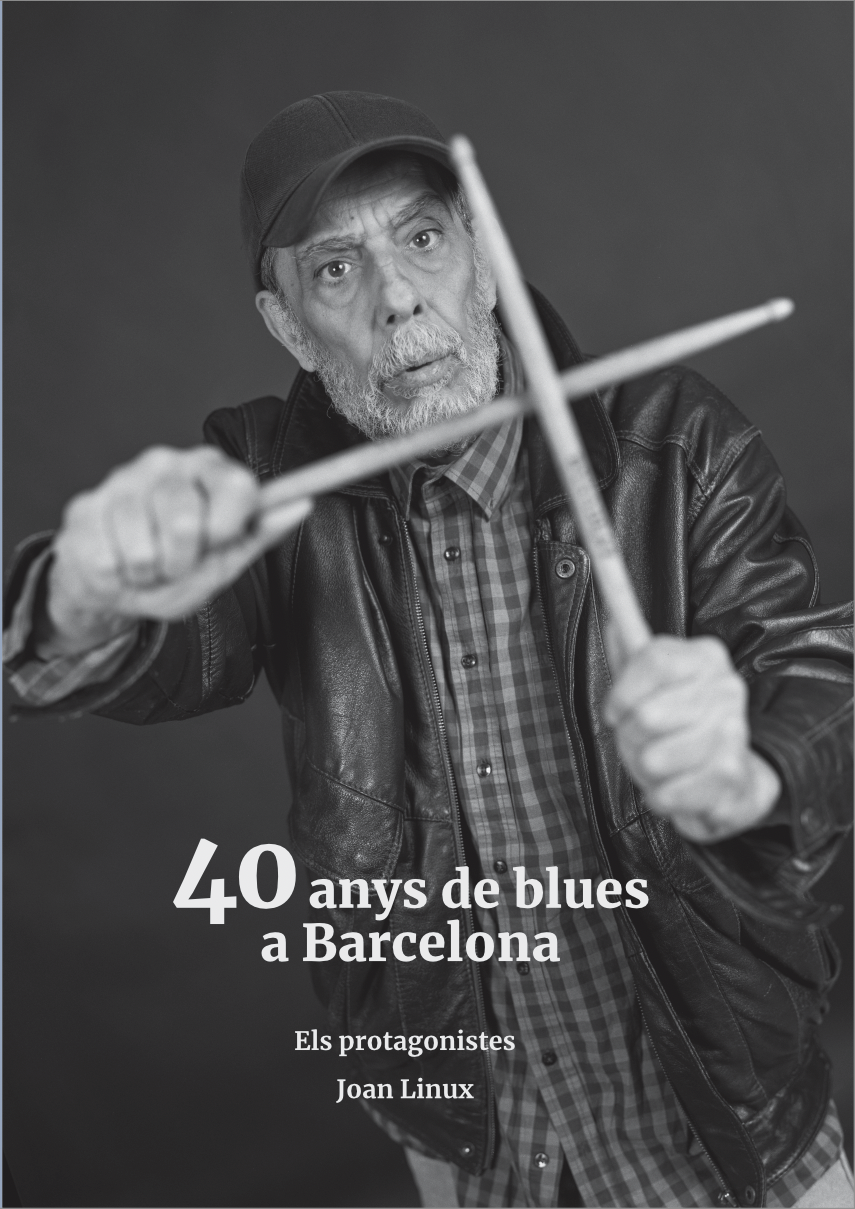
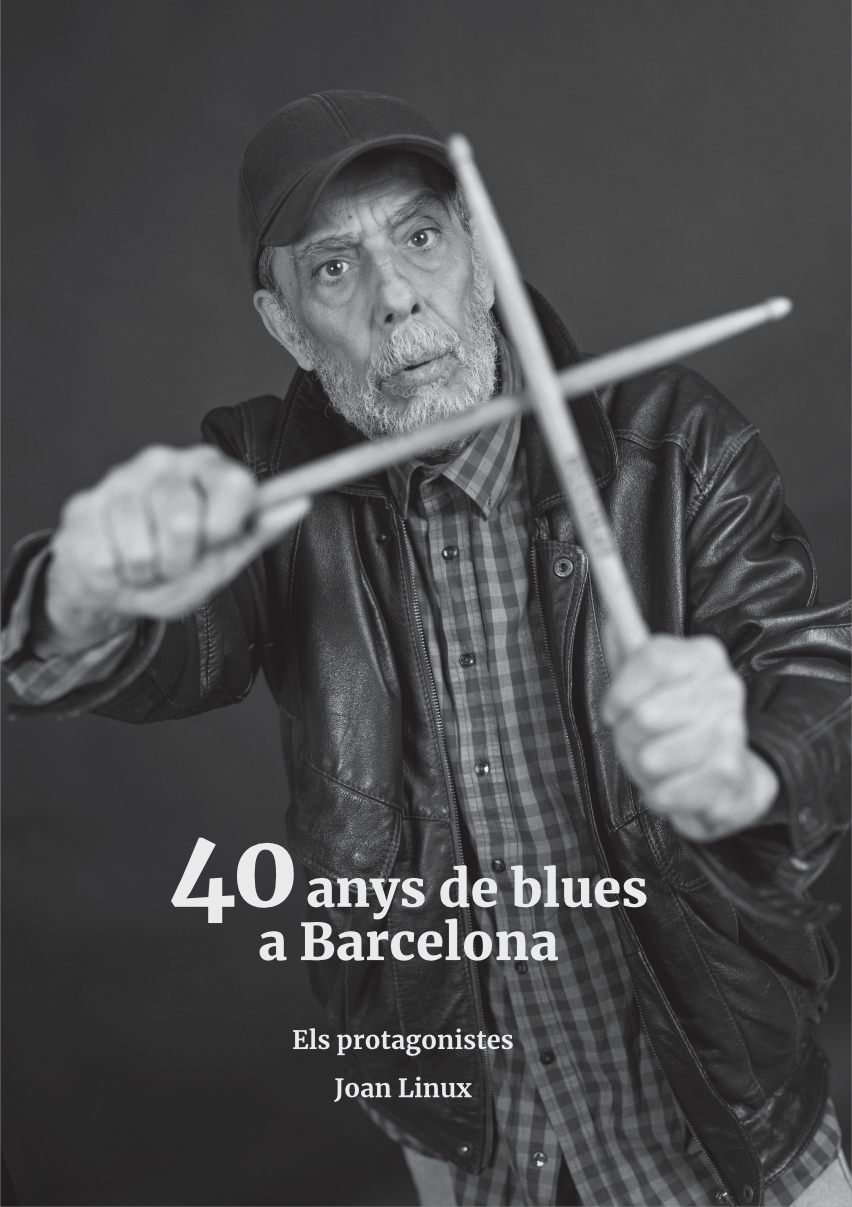
Projecte i Fotografia: portada al 50%, premsa, menu i text del proces
- og.html: les meta og:image:width/height sortien escapades i el navegador
  tancava el head; el text "<meta ...>" apareixia al capdamunt de totes les
  pagines amb fotografia (fitxes de music, autors, sales...). Ara surten com a
  safeHTML dins de <head>.
- Proleg del Projecte: el titol surt primer i la portada flota a la dreta al
  50% de l'ample (320 px com a maxim al mobil, despistada sobre el text).
  La imatge passa al contingut amb el shortcode portada-llibre.
- Menu de l'esquerra: afegeix "Proleg" i agafa els textos de les mateixes
  claus i18n que les capcaleres, de manera que no es tornin a desalinear.
- Portada retallada: fora els 2 px clars de l'esquerra i 1 px de la resta de
  costats (anti-aliasing de l'export); PNG i WebP regenerats (797x1129).
- Fotografia: estudi del Poble Sec (Llumatics) i trasllat a la Nau Bostik
  despres de la pandemia; revelat, digitalitzacio i edicio pel mateix autor;
  procediment de cada sessio (12 fotogrames de 6x6 i 2 plaques de 8x10, primer
  la Hasselblad per escalfar i despres el gran format); Hasselblad 500 C/M i
  negatiu de 6 x 6 cm; Ilford HP5 nomes ocasionalment; revelat al laboratori
  de l'autor amb Rodinal.
- llms.txt i CLAUDE.md actualitzats amb les dades tecniques.

diff --git a/themes/40anys/layouts/page/projecte.html b/themes/40anys/layouts/page/projecte.html
@@ -10,11 +10,12 @@
       <!-- Índex lateral esquerre -->
       <aside class="projecte-sidebar">
         <nav class="projecte-index" aria-label="{{ i18n "nav_projecte_index" }}">
-          <a href="#numeros">El projecte en números</a>
-          <a href="#llibres">Els llibres</a>
-          <a href="#autors">Els culpables</a>
-          <a href="#gracies">Gràcies a</a>
-          <a href="#bibliografia">Bibliografia</a>
+          <a href="#proleg">{{ i18n "projecte_preleg" }}</a>
+          <a href="#numeros">{{ i18n "projecte_numeros" }}</a>
+          <a href="#llibres">{{ i18n "projecte_llibres" }}</a>
+          <a href="#autors">{{ i18n "projecte_culpables" }}</a>
+          <a href="#gracies">{{ i18n "projecte_gracies" }}</a>
+          <a href="#bibliografia">{{ i18n "projecte_biblio" }}</a>
           <a href="#premsa">{{ i18n "projecte_premsa_nav" }}</a>
           <a href="{{ relLangURL "/fotografia/" }}">{{ i18n "nav_fotografia" }}</a>
         </nav>
@@ -25,10 +26,7 @@
 
         <h1>{{ .Title }}</h1>
 
-        <div class="projecte-proleg">
-          <figure class="proleg-portada">
-            <img src="/llibres/40anysbluesbarcelona.webp" width="400" height="566" alt="{{ i18n "projecte_portada_alt" }}">
-          </figure>
+        <div class="projecte-proleg" id="proleg">
           <div class="page-content">{{ .Content }}</div>
         </div>
 
@@ -79,7 +77,7 @@
               </div>
             </div>
             <div class="llibre-card">
-              <img src="/llibres/40anysbluesbarcelona.webp" width="800" height="1131" alt="40 Anys de Blues a Barcelona">
+              <img src="/llibres/40anysbluesbarcelona.webp" width="797" height="1129" alt="40 Anys de Blues a Barcelona">
               <div class="llibre-info">
                 <h3>40 Anys de Blues a Barcelona</h3>
                 <p>{{ i18n "projecte_llibre2_sub" (dict "preu" ($vd.preu | default "38") "soci" ($vd.preu_soci | default "33")) }}</p>

diff --git a/themes/40anys/static/css/main.css b/themes/40anys/static/css/main.css
@@ -828,16 +828,16 @@ h1, h2, h3 { font-weight: 700; }
 .projecte-proleg .page-content p { max-width: 72ch; }
 .proleg-portada {
   float: right;
-  width: 400px;
-  margin: .4rem 0 1.75rem 2.5rem;
+  width: 50%;
+  margin: .35rem 0 1.5rem 2rem;
 }
 .proleg-portada img {
   width: 100%; height: auto; display: block;
   border: 1px solid var(--border);
   box-shadow: 0 12px 32px rgba(0, 0, 0, .5);
 }
-@media (max-width: 1150px) {
-  .proleg-portada { float: none; width: min(400px, 100%); margin: 0 auto 1.75rem; }
+@media (max-width: 900px) {
+  .proleg-portada { float: none; width: min(320px, 100%); margin: .5rem auto 1.75rem; }
   .projecte-proleg .page-content { max-width: 720px; }
   .projecte-proleg .page-content p { max-width: none; }
 }

diff --git a/themes/40anys/layouts/index.html b/themes/40anys/layouts/index.html
@@ -67,7 +67,7 @@
         <span class="random-label">{{ i18n "home_llibres_label" }}</span>
         <div class="random-llibres-stack">
           <div class="llibre-home-card">
-            <img src="/llibres/40anysbluesbarcelona.webp" width="800" height="1131" alt="40 Anys de Blues a Barcelona">
+            <img src="/llibres/40anysbluesbarcelona.webp" width="797" height="1129" alt="40 Anys de Blues a Barcelona">
             <div class="llibre-home-info">
               <h3>40 Anys de Blues a Barcelona</h3>
               <p class="llibre-sub">{{ i18n "home_llibre1_sub" (dict "data" (i18n "data_esdeveniment_curta") "preu" (site.Params.venda.preu | default "38") "soci" (site.Params.venda.preu_soci | default "33")) }}</p>

diff --git a/themes/40anys/layouts/partials/llibre-popup.html b/themes/40anys/layouts/partials/llibre-popup.html
@@ -41,7 +41,7 @@
     <button id="lb-tanca" class="lb-tanca" type="button" aria-label="{{ i18n "lb_tancar" }}">&#x2715;</button>
 
     <div class="lb-esq">
-      <img class="lb-coberta" src="/llibres/40anysbluesbarcelona.webp" width="800" height="1131" alt="{{ i18n "lb_coberta_alt" (dict "obra" $obra) }}">
+      <img class="lb-coberta" src="/llibres/40anysbluesbarcelona.webp" width="797" height="1129" alt="{{ i18n "lb_coberta_alt" (dict "obra" $obra) }}">
       <p class="lb-kicker">
         <span data-mode="reserva">{{ i18n "lb_prev" }}</span>
         <span data-mode="tancada" hidden>{{ i18n "lb_prev" }}</span>

diff --git a/themes/40anys/layouts/partials/og.html b/themes/40anys/layouts/partials/og.html
@@ -37,7 +37,7 @@
 <meta property="og:locale:alternate" content="{{ or (index $locales .Lang) "ca_ES" }}">
 {{- end }}{{ end }}
 <meta property="og:image" content="{{ $ogImage }}">
-<meta property="og:image:alt" content="{{ $imgAlt }}">{{ $dims }}
+<meta property="og:image:alt" content="{{ $imgAlt }}">{{ $dims | safeHTML }}
 <meta name="twitter:card" content="summary_large_image">
 <meta name="twitter:title" content="{{ $ogTitle }}">
 <meta name="twitter:description" content="{{ $ogDesc }}">

diff --git a/themes/40anys/layouts/shortcodes/portada-llibre.html b/themes/40anys/layouts/shortcodes/portada-llibre.html
@@ -1,0 +1,3 @@
+<figure class="proleg-portada">
+  <img src="{{ "/llibres/40anysbluesbarcelona.webp" | relURL }}" width="797" height="1129" alt="{{ i18n "projecte_portada_alt" }}">
+</figure>

diff --git a/content/es/fotografia/index.md b/content/es/fotografia/index.md
@@ -5,7 +5,7 @@ type: "page"
 layout: "fotografia"
 ---
 
-Los retratos de **40 anys de blues a Barcelona** se hicieron en estudio, con cámara analógica, película en blanco y negro y revelado a mano. Cada músico pasó por delante del objetivo un día, en una sesión de retrato acordada con calma, y lo que ha llegado hasta aquí es el negativo: ninguna fotografía de este archivo ha pasado por un proceso de retoque digital.
+Los retratos de **40 anys de blues a Barcelona** se hicieron en estudio, con cámara analógica, película en blanco y negro y revelado a mano por el mismo fotógrafo. Las primeras sesiones se hicieron en el estudio del autor en el Poble Sec ([Llumàtics](https://llumatics.com)); después de la pandemia, el estudio se trasladó a la Nau Bostik, en el barrio de la Sagrera. Cada músico pasó por delante del objetivo un día, en una sesión de retrato acordada con calma, y lo que ha llegado hasta aquí es la digitalización de los negativos: uno de formato medio cuadrado, que va a la página izquierda, y uno de 8×10, que va a la página derecha. La digitalización y la edición también son responsabilidad del mismo autor, con una intervención mínima para quitar defectos de polvo y ajustar el contraste.
 
 ## Qué es la fotografía de gran formato
 
@@ -15,13 +15,17 @@ A cambio, el gran formato es lento. La cámara va sobre trípode, el visor se ta
 
 ## Formato medio y gran formato en el archivo
 
-El proyecto combina dos formatos. La mayoría de los retratos se hicieron en **formato medio 6×6** con una Hasselblad 500 CM, una cámara de 1957 que da un cuadrado de seis por seis centímetros y que obliga a componer dentro de un marco cerrado. Es el formato más ágil para una sesión de retrato de estudio y es el que da al archivo su unidad visual.
+El proyecto combina dos formatos. La mayoría de los retratos se hicieron en **formato medio 6×6** con una Hasselblad 500 C/M, una cámara mítica de 1957 que da un cuadrado de 6 × 6 centímetros y que obliga a componer dentro de un marco cerrado. Es el formato más ágil para una sesión de retrato de estudio y es el que da al archivo su unidad visual.
 
-Un grupo más reducido de retratos se hizo en **gran formato 8×10** con una Horseman, con el negativo más grande que se puede manipular con comodidad dentro de un estudio. Son las sesiones más lentas de todo el proyecto y las que permiten ampliar el retrato hasta un tamaño de pared sin perder nada.
+El retrato en **gran formato 8×10** se hizo con una Horseman, con el negativo más grande que se puede manipular con comodidad dentro de un estudio. Es el momento más lento de la sesión y el que permite ampliar el retrato hasta un tamaño de pared sin perder nada.
+
+El procedimiento era siempre el mismo. Primero, un carrete o más con la Hasselblad: el formato ágil, el que permite calentar, ver cómo reacciona cada músico y, sobre todo, establecer un vínculo de confianza. Cuando la sesión ya iba tranquila, se montaba la Horseman y se hacía el retrato en gran formato. Así, para cada músico se han utilizado doce fotogramas de 6 × 6 y dos placas de 8×10.
+
+Después, a la hora de elegir, la diferencia se nota. A menudo las dos versiones de un mismo músico no se parecen: por norma, el gran formato ha quedado más serio y el formato medio ha podido ser más desenfadado y poco ortodoxo. El autor no quería el mismo tipo de inmortalización en dos formatos diferentes.
 
 ## El proceso: película, revelado y copia
 
-Todas las sesiones se hicieron con película en blanco y negro de grano fino —Rollei RPX 100, Ilford HP5 y Foma 100 y 400— y se revelaron en un laboratorio manual con revelador Rodinal, trabajando para cada película la densidad que pide el retrato. El resultado es un negativo crudo, con el grano visible y las altas luces contenidas, que es lo contrario del retoque: aquí no se esconde nada.
+Todas las sesiones se hicieron con película en blanco y negro de grano fino —Rollei RPX 100 y Foma 100 y 400, con Ilford HP5 solo de forma ocasional— y se revelaron en el laboratorio del propio autor con el clásico Rodinal, trabajando para cada película la densidad que pide el retrato. El resultado es un negativo crudo, con el grano visible y las altas luces contenidas, que es lo contrario del retoque: aquí no se esconde nada.
 
 La fotografía química es, por tanto, una manera de trabajar y también una manera de mirar. El blues nació como una música pobre, hecha con instrumentos sencillos y con lo que había a mano; la cámara de segunda mano, la película caducada y el laboratorio de casa son el mismo gesto aplicado a la imagen.
 

diff --git a/content/ca/fotografia/index.md b/content/ca/fotografia/index.md
@@ -5,7 +5,7 @@ type: "page"
 layout: "fotografia"
 ---
 
-Els retrats de **40 anys de blues a Barcelona** es van fer en estudi, amb càmera analògica, pel·lícula en blanc i negre i revelat a mà. Cada músic va passar per davant de l'objectiu un dia, en una sessió de retrat pactada amb calma, i el que ha arribat fins aquí és el negatiu: cap fotografia d'aquest arxiu no ha passat per un procés de retoc digital.
+Els retrats de **40 anys de blues a Barcelona** es van fer en estudi, amb càmera analògica, pel·lícula en blanc i negre i revelat a mà pel mateix fotògraf. Les primeres sessions es van fer a l'estudi de l'autor al Poble Sec ([Llumàtics](https://llumatics.com)); després de la pandèmia, l'estudi es va traslladar a la Nau Bostik, al barri de la Sagrera. Cada músic va passar per davant de l'objectiu un dia, en una sessió de retrat pactada amb calma, i el que ha arribat fins aquí és la digitalització dels negatius: un de mig format quadrat, que va a la pàgina esquerra, i un de 8×10, que va a la pàgina dreta. La digitalització i l'edició també són responsabilitat del mateix autor, amb una intervenció mínima per treure defectes de pols i ajustar el contrast.
 
 ## Què és la fotografia de gran format
 
@@ -15,13 +15,17 @@ A canvi, el gran format és lent. La càmera va sobre trípode, el visor s'ha de
 
 ## Format mitjà i gran format a l'arxiu
 
-El projecte combina dos formats. La majoria dels retrats es van fer en **format mitjà 6×6** amb una Hasselblad 500 CM, una càmera de 1957 que dona un quadrat de sis per sis centímetres i que obliga a compondre dins d'un marc tancat. És el format més àgil per a una sessió de retrat d'estudi i és el que dona a l'arxiu la seva unitat visual.
+El projecte combina dos formats. La majoria dels retrats es van fer en **format mitjà 6×6** amb una Hasselblad 500 C/M, una càmera mítica de 1957 que dona un quadrat de 6 × 6 centímetres i que obliga a compondre dins d'un marc tancat. És el format més àgil per a una sessió de retrat d'estudi i és el que dona a l'arxiu la seva unitat visual.
 
-Un grup més reduït de retrats es va fer en **gran format 8×10** amb una Horseman, amb el negatiu més gran que es pot manipular amb comoditat dins d'un estudi. Són les sessions més lentes de tot el projecte i les que permeten ampliar el retrat fins a una mida de paret sense perdre-hi res.
+El retrat en **gran format 8×10** es va fer amb una Horseman, amb el negatiu més gran que es pot manipular amb comoditat dins d'un estudi. És el moment més lent de la sessió i el que permet ampliar el retrat fins a una mida de paret sense perdre-hi res.
+
+El procediment era sempre el mateix. Primer, un rodet o més amb la Hasselblad: el format àgil, el que permet escalfar, veure com reacciona cada músic i, sobretot, establir un vincle de confiança. Quan la sessió ja anava tranquil·la, es muntava la Horseman i es feia el retrat en gran format. Així, per a cada músic s'han fet servir dotze fotogrames de 6 × 6 i dues plaques de 8×10.
+
+Després, a l'hora de triar, la diferència es nota. Sovint les dues versions d'un mateix músic no s'assemblen: com a norma, el gran format ha quedat més seriós i el format mitjà ha pogut ser més desenfadat i poc ortodox. L'autor no volia el mateix tipus d'immortalització en dos formats diferents.
 
 ## El procés: pel·lícula, revelat i còpia
 
-Totes les sessions es van fer amb pel·lícula en blanc i negre de gra fi —Rollei RPX 100, Ilford HP5 i Foma 100 i 400— i es van revelar en un laboratori manual amb revelador Rodinal, treballant per a cada pel·lícula la densitat que demana el retrat. El resultat és un negatiu cru, amb el gra visible i les altes llums contingudes, que és el contrari del retoc: aquí no s'amaga res.
+Totes les sessions es van fer amb pel·lícula en blanc i negre de gra fi —Rollei RPX 100 i Foma 100 i 400, amb Ilford HP5 només ocasionalment— i es van revelar al mateix laboratori de l'autor amb el clàssic Rodinal, treballant per a cada pel·lícula la densitat que demana el retrat. El resultat és un negatiu cru, amb el gra visible i les altes llums contingudes, que és el contrari del retoc: aquí no s'amaga res.
 
 La fotografia química és, per tant, una manera de treballar i també una manera de mirar. El blues va néixer com una música pobra, feta amb instruments senzills i amb el que hi havia a mà; la càmera de segona mà, la pel·lícula caducada i el laboratori de casa són el mateix gest aplicat a la imatge.
 

diff --git a/content/en/fotografia/index.md b/content/en/fotografia/index.md
@@ -5,7 +5,7 @@ type: "page"
 layout: "fotografia"
 ---
 
-The portraits in **40 anys de blues a Barcelona** were made in the studio, with an analogue camera, black-and-white film and hand processing. Each musician stood in front of the lens for one day, in a portrait session agreed without haste, and what has survived is the negative: not one photograph in this archive has been through digital retouching.
+The portraits in **40 anys de blues a Barcelona** were made in the studio, with an analogue camera, black-and-white film and hand processing by the photographer himself. The first sessions took place in the author's studio in Poble Sec ([Llumàtics](https://llumatics.com)); after the pandemic the studio moved into the Nau Bostik, in the La Sagrera neighbourhood. Each musician stood in front of the lens for one day, in a portrait session agreed without haste, and what has survived is the digitisation of the negatives: one medium-format square, which goes on the left-hand page, and one 8×10, which goes on the right-hand page. Digitisation and editing are also the author's own responsibility, with minimal intervention to remove dust marks and adjust contrast.
 
 ## What large format photography is
 
@@ -15,13 +15,17 @@ In exchange, large format is slow. The camera sits on a tripod, the viewfinder i
 
 ## Medium format and large format in the archive
 
-The project combines two formats. Most of the portraits were made in **6×6 medium format** with a Hasselblad 500 CM, a 1957 camera that gives a six-by-six centimetre square and forces you to compose inside a closed frame. It is the most agile format for a studio portrait session and the one that gives the archive its visual unity.
+The project combines two formats. Most of the portraits were made in **6×6 medium format** with a Hasselblad 500 C/M, a legendary 1957 camera that gives a 6 × 6 centimetre square and forces you to compose inside a closed frame. It is the most agile format for a studio portrait session and the one that gives the archive its visual unity.
 
-A smaller group of portraits was made in **8×10 large format** with a Horseman, using the largest negative that can be handled comfortably inside a studio. Those are the slowest sessions in the whole project and the ones that allow the portrait to be enlarged to wall size without losing anything.
+The **8×10 large format** portrait was made with a Horseman, using the largest negative that can be handled comfortably inside a studio. It is the slowest moment of the session and the one that allows the portrait to be enlarged to wall size without losing anything.
+
+The procedure was always the same. First, one roll of film or more with the Hasselblad: the agile format, the one that lets you warm up, see how each musician reacts and, above all, establish a bond of trust. Once the session had settled down, the Horseman was set up and the large-format portrait was made. So for each musician twelve 6 × 6 frames and two 8×10 plates were used.
+
+Later, when it comes to choosing, the difference shows. Often the two versions of the same musician do not look alike: as a rule, the large-format picture is the more serious one, while the medium-format one could be more relaxed and unorthodox. The author did not want the same kind of immortalisation in two different formats.
 
 ## The process: film, development and printing
 
-Every session used fine-grain black-and-white film —Rollei RPX 100, Ilford HP5 and Foma 100 and 400— developed by hand with Rodinal, working up the density each film needs for a portrait. The result is a raw negative, with visible grain and contained highlights, the opposite of retouching: nothing is hidden here.
+Every session used fine-grain black-and-white film —Rollei RPX 100 and Foma 100 and 400, with Ilford HP5 only occasionally— developed in the author's own darkroom with classic Rodinal, working up the density each film needs for a portrait. The result is a raw negative, with visible grain and contained highlights, the opposite of retouching: nothing is hidden here.
 
 Chemical photography is therefore a way of working and also a way of looking. The blues was born as a poor music, made with simple instruments and whatever was at hand; the second-hand camera, the out-of-date film and the home darkroom are the same gesture applied to the image.
 

diff --git a/content/ca/projecte/index.md b/content/ca/projecte/index.md
@@ -7,6 +7,8 @@ layout: "projecte"
 
 ## La resta de coses, les podem deixar per demà
 
+{{< portada-llibre >}}
+
 El blues va arribar a Barcelona com qui fa tard a una festa: sense pressa, però amb una elegància que ningú va poder ignorar. Era una nit calorosa de 1953 i Big Bill Broonzy, una de les figures més emblemàtiques d’aquest gènere musical, pujava a l’escenari del teatre C.A.P.S.A. de la ciutat comtal amb la seva guitarra amplificada i la seva veu esquinçada. Va ser un concert que pocs recorden haver presenciat (la memòria és fràgil en temps de dictadura), però la llegenda del qual ha anat magnificant-se amb el pas de les dècades i que avui segueix inspirant tots els aficionats locals que entenen que el blues, més que un estil musical, és una forma d’habitar en aquest món tan incongruent i apassionant que hem heretat, generació rere generació, acord rere acord.
 
 Curiosament, la fotografia va arribar a Barcelona molt temps abans i amb certa urgència després de la seva invenció. El 1839, els primers daguerreotips van començar a captar els contorns d’una ciutat que, com el blues, havia d’aprendre a reinventar-se amb cada nou pla urbanístic, amb cada contrallum que encegava l’esguard d’unes persones que no entenien cap a on avançava la societat, i amb cada ombra que projectaven els nous temps que acabarien sucumbint a l’arribada del tramvia elèctric (siguem honestos, tampoc han canviat tantes coses). Des d’aleshores, les dues formes artístiques, la música i la imatge, han evolucionat en paral·lel, capturant les històries, les emocions i la batalla persistent entre la melancolia i l’esperança, entre allò que és modern i el que és tradicional, una batalla que continua vigent en l’univers digital en el qual habitem avui en dia.

diff --git a/content/es/projecte/index.md b/content/es/projecte/index.md
@@ -7,6 +7,8 @@ layout: "projecte"
 
 ## El resto de las cosas, las podemos dejar para mañana
 
+{{< portada-llibre >}}
+
 El blues llegó a Barcelona como quien llega tarde a una fiesta: sin prisa, pero con una elegancia que nadie pudo ignorar. Era una noche calurosa de 1953 y Big Bill Broonzy, una de las figuras más emblemáticas de este género musical, subía al escenario del teatro C.A.P.S.A. de la ciudad condal con su guitarra amplificada y su voz desgarrada. Fue un concierto que pocos recuerdan haber presenciado (la memoria es frágil en tiempos de dictadura), pero cuya leyenda se ha ido engrandeciendo con el paso de las décadas y que hoy sigue inspirando a todos los aficionados locales que entienden que el blues, más que un estilo musical, es una forma de habitar en este mundo tan incongruente y apasionante que hemos heredado, generación tras generación, acorde tras acorde.
 
 Curiosamente, la fotografía llegó a Barcelona mucho tiempo antes y con cierta urgencia después de su invención. En 1839, los primeros daguerrotipos empezaron a captar los contornos de una ciudad que, como el blues, debía aprender a reinventarse con cada nuevo plan urbanístico, con cada contraluz que cegaba la mirada de unas personas que no entendían hacia dónde avanzaba la sociedad, y con cada sombra que proyectaban los nuevos tiempos que acabarían sucumbiendo a la llegada del tranvía eléctrico (seamos honestos, tampoco han cambiado tantas cosas). Desde entonces, las dos formas artísticas, la música y la imagen, han evolucionado en paralelo, capturando las historias, las emociones y la batalla persistente entre la melancolía y la esperanza, entre lo que es moderno y lo que es tradicional, una batalla que sigue vigente en el universo digital en el que habitamos hoy en día.

diff --git a/content/en/projecte/index.md b/content/en/projecte/index.md
@@ -7,6 +7,8 @@ layout: "projecte"
 
 ## The rest we can leave for tomorrow
 
+{{< portada-llibre >}}
+
 The blues arrived in Barcelona like someone late to a party: unhurried, but with an elegance nobody could ignore. It was a warm night in 1953 and Big Bill Broonzy, one of the most emblematic figures of this musical genre, was climbing onto the stage of the C.A.P.S.A. theatre in the Catalan capital with his amplified guitar and his torn voice. It was a concert that few remember having witnessed (memory is fragile in times of dictatorship), but whose legend has grown greater with the passing of the decades and which today still inspires all the local enthusiasts who understand that the blues, more than a musical style, is a way of inhabiting this world, so incongruous and thrilling, that we have inherited, generation after generation, chord after chord.
 
 Curiously, photography arrived in Barcelona much earlier, and with a certain urgency, after its invention. In 1839, the first daguerreotypes began to capture the outlines of a city which, like the blues, had to learn to reinvent itself with every new urban plan, with every backlight that dazzled the eyes of people who did not understand where society was heading, and with every shadow cast by the new times that would end up succumbing to the arrival of the electric tram (let us be honest, not that many things have changed either). Ever since, the two art forms, music and image, have evolved in parallel, capturing the stories, the emotions and the persistent battle between melancholy and hope, between what is modern and what is traditional, a battle that remains alive in the digital universe we inhabit today.
